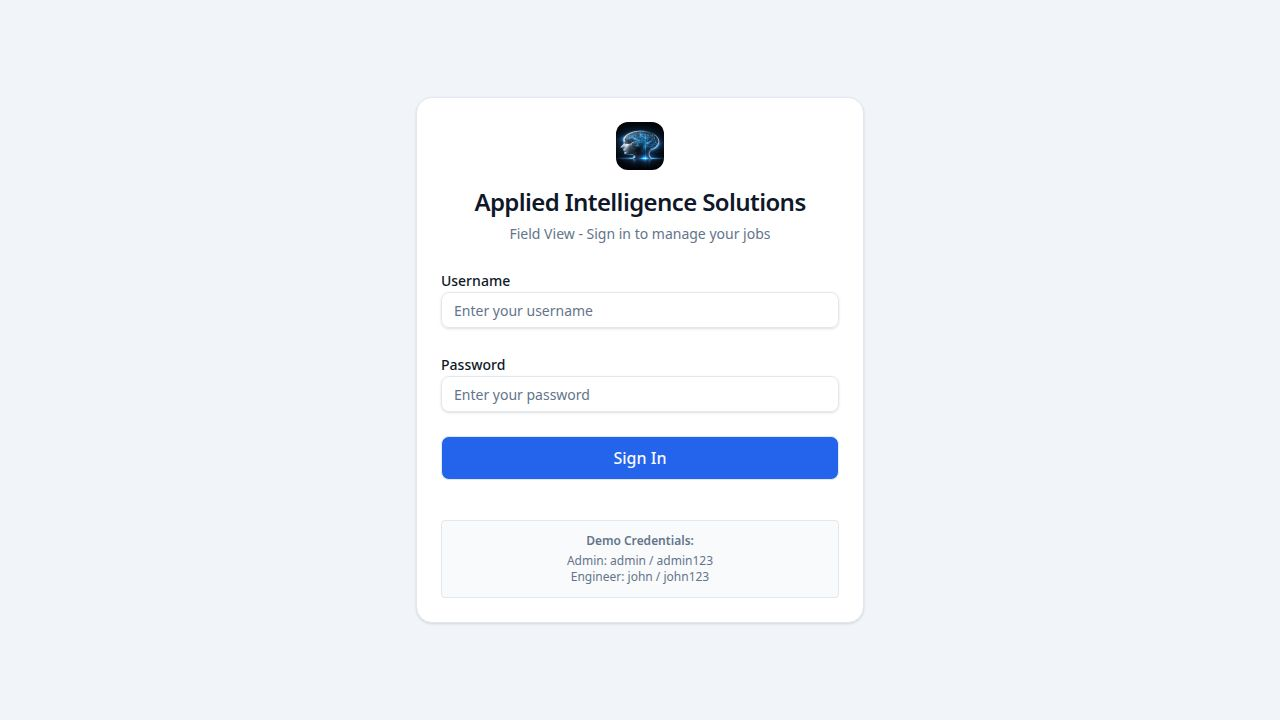
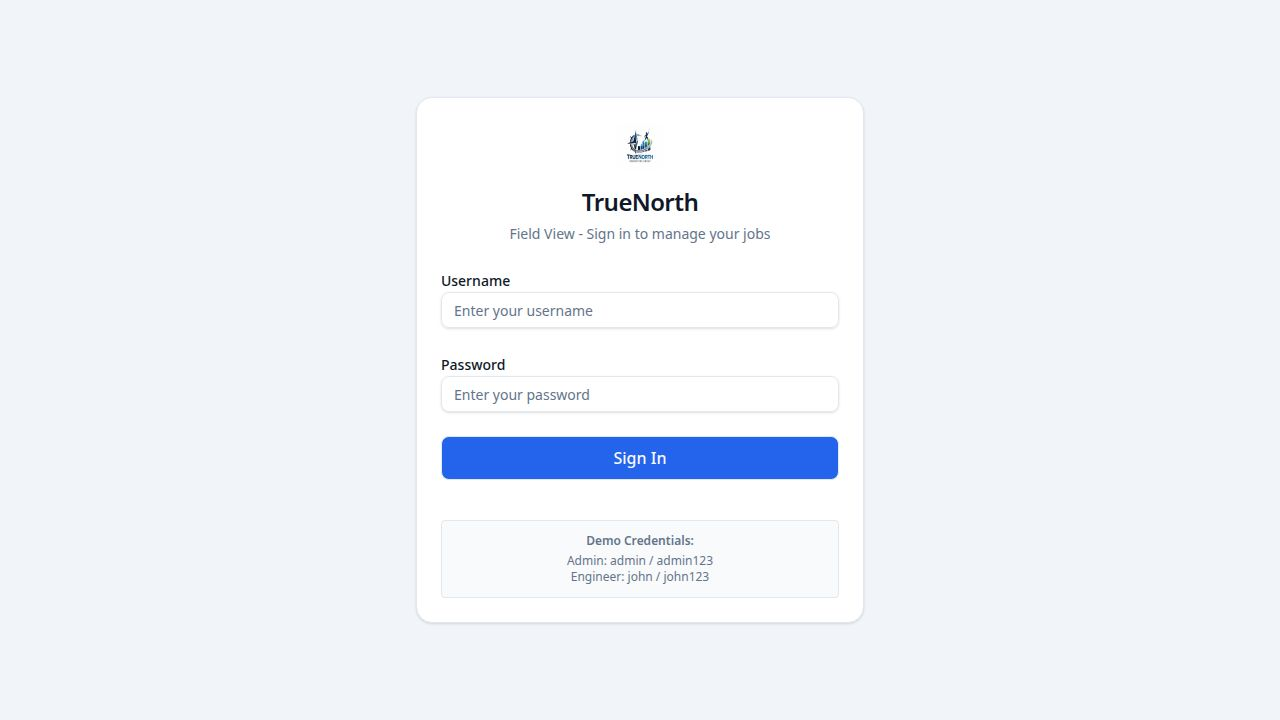
Enable offline access and install functionality for the application
Update index.html to include manifest and service worker registration. Add manifest.json for PWA configuration. Create sw.js with network-first caching strategy for dynamic content and cache-first for static assets. Add new icons for PWA.

Replit-Commit-Author: Agent
Replit-Commit-Session-Id: ccc007b0-03ed-4406-9f13-db5ebb27209d
Replit-Commit-Checkpoint-Type: intermediate_checkpoint
Replit-Commit-Event-Id: fb7a5796-679f-42ef-97d1-0c4db3a9684c
Replit-Commit-Screenshot-Url: https://storage.googleapis.com/screenshot-production-us-central1/4989ed28-8e5a-486b-851f-58acaf940ad5/ccc007b0-03ed-4406-9f13-db5ebb27209d/BeVjxMo
Replit-Helium-Checkpoint-Created: true

Changed region(s): [[0.375, 0.275, 0.625, 0.3056], [0.4688, 0.1528, 0.5312, 0.2444]]

diff --git a/client/public/sw.js b/client/public/sw.js
@@ -1,0 +1,100 @@
+const CACHE_NAME = 'truenorth-fieldview-v1';
+
+const STATIC_ASSETS = [
+  '/manifest.json',
+  '/logo.png',
+  '/icons/icon-192x192.png',
+  '/icons/icon-512x512.png'
+];
+
+self.addEventListener('install', (event) => {
+  event.waitUntil(
+    caches.open(CACHE_NAME)
+      .then((cache) => cache.addAll(STATIC_ASSETS))
+      .then(() => self.skipWaiting())
+  );
+});
+
+self.addEventListener('activate', (event) => {
+  event.waitUntil(
+    caches.keys()
+      .then((cacheNames) => Promise.all(
+        cacheNames
+          .filter((name) => name !== CACHE_NAME)
+          .map((name) => caches.delete(name))
+      ))
+      .then(() => self.clients.claim())
+  );
+});
+
+self.addEventListener('fetch', (event) => {
+  const { request } = event;
+  const url = new URL(request.url);
+
+  if (request.method !== 'GET') return;
+
+  if (url.pathname.startsWith('/api/')) {
+    event.respondWith(networkOnly(request));
+    return;
+  }
+
+  if (isStaticAsset(url.pathname)) {
+    event.respondWith(cacheFirst(request));
+    return;
+  }
+
+  event.respondWith(networkFirst(request));
+});
+
+function isStaticAsset(pathname) {
+  return STATIC_ASSETS.includes(pathname) ||
+    pathname.match(/\.(png|jpg|jpeg|gif|svg|ico|woff|woff2|ttf|eot)$/);
+}
+
+async function cacheFirst(request) {
+  const cached = await caches.match(request);
+  if (cached) return cached;
+
+  try {
+    const response = await fetch(request);
+    if (response.ok) {
+      const cache = await caches.open(CACHE_NAME);
+      cache.put(request, response.clone());
+    }
+    return response;
+  } catch {
+    return new Response('Offline', { status: 503 });
+  }
+}
+
+async function networkFirst(request) {
+  try {
+    const response = await fetch(request);
+    if (response.ok) {
+      const cache = await caches.open(CACHE_NAME);
+      cache.put(request, response.clone());
+    }
+    return response;
+  } catch {
+    const cached = await caches.match(request);
+    if (cached) return cached;
+    
+    if (request.mode === 'navigate') {
+      const cachedIndex = await caches.match('/');
+      if (cachedIndex) return cachedIndex;
+    }
+    
+    return new Response('Offline', { status: 503 });
+  }
+}
+
+async function networkOnly(request) {
+  try {
+    return await fetch(request);
+  } catch {
+    return new Response(JSON.stringify({ error: 'Offline' }), {
+      status: 503,
+      headers: { 'Content-Type': 'application/json' }
+    });
+  }
+}

diff --git a/client/index.html b/client/index.html
@@ -13,6 +13,12 @@
     <meta name="twitter:description" content="Professional field job management and tracking system for engineers and field teams." />
 
     <link rel="icon" type="image/svg+xml" href="/favicon.svg" />
+    <link rel="apple-touch-icon" href="/icons/icon-192x192.png" />
+    <link rel="manifest" href="/manifest.json" />
+    <meta name="theme-color" content="#1e40af" />
+    <meta name="apple-mobile-web-app-capable" content="yes" />
+    <meta name="apple-mobile-web-app-status-bar-style" content="default" />
+    <meta name="apple-mobile-web-app-title" content="Field View" />
     <link rel="preconnect" href="https://fonts.googleapis.com">
     <link rel="preconnect" href="https://fonts.gstatic.com" crossorigin>
     <link href="https://fonts.googleapis.com/css2?family=Inter:wght@300;400;500;600;700&display=swap" rel="stylesheet">
@@ -20,5 +26,18 @@
   <body>
     <div id="root"></div>
     <script type="module" src="/src/main.tsx"></script>
+    <script>
+      if ('serviceWorker' in navigator) {
+        window.addEventListener('load', () => {
+          navigator.serviceWorker.register('/sw.js')
+            .then((registration) => {
+              console.log('SW registered:', registration.scope);
+            })
+            .catch((error) => {
+              console.log('SW registration failed:', error);
+            });
+        });
+      }
+    </script>
   </body>
 </html>
